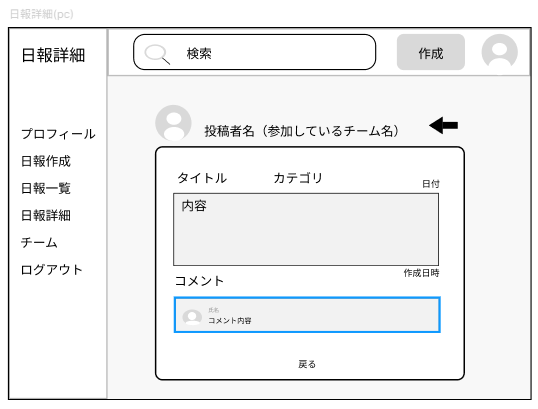
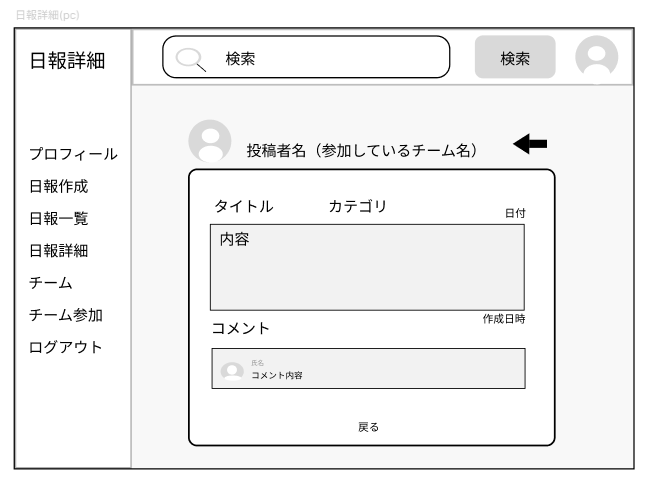
feat: チーム参加画面の追加と、日報一覧画面にフィルタリングフォーム追加

Changed region(s): [[0.0, 0.0293, 1.0, 0.9976], [0.2677, 0.2347, 0.8625, 0.9389]]

diff --git a/docs/screen-design.md b/docs/screen-design.md
@@ -12,6 +12,8 @@
 | 日報作成           | /reports/new       | 日報投稿           |
 | 日報詳細           | /reports/[id]      | 日報詳細表示       |
 | 日報編集           | /reports/[id]/edit | 日報編集           |
+| チーム             | /team              | チームメンバー一覧  |
+| チーム参加          | /team/join         | チーム参加        |
 
 ---
 
@@ -77,6 +79,57 @@ Headerなし
 
 ---
 
+## 共通ヘッダー
+
+全画面（ログイン・新規登録・パスワードリセット以外）で表示される共通レイアウト。
+
+### 要素
+
+・検索フォーム  
+・検索ボタン  
+・アカウントアイコン（プロフィール画面へのリンク）
+
+### 検索機能
+
+#### 検索仕様 ：
+
+未入力の場合 ： 全日報表示
+
+検索結果0件： 該当する日報がありません表示
+
+ページネーション： 検索結果にも適用
+
+#### 検索対象：
+
+・日報タイトル  
+・日報本文  
+・投稿者名  
+
+#### 検索方法：
+
+・部分一致検索（LIKE検索）
+・複数項目をOR条件で検索
+
+例：
+
+タイトル OR 本文 OR 投稿者名 に検索ワードが含まれる日報を表示
+
+### レイアウト
+
+[現在の画面]　[検索フォーム][検索ボタン]　　　　　　[アカウントアイコン]
+
+PC：
+
+・横並び表示
+・ヘッダー固定（sticky）
+
+スマホ：
+
+・検索フォーム横幅100%
+・アカウントアイコン右配置
+
+---
+
 ## 日報一覧画面
 
 URL:
@@ -85,11 +138,8 @@ URL:
 ### 要素
 
 ・ヘッダー
-・プロフィールリンク
-・日報作成ボタン
-・検索フォーム
-・チーム参加ボタン（参加している場合はチーム名を表示）
 ・日報カード一覧
+・フィルタリングフォーム（存在しているチームをセレクト。デフォルトは自分のチームのものを表示）
 ・ページネーション
 
 ### 日報カード表示項目
@@ -203,8 +253,21 @@ URL:
 ### 要素
 
 ・プロジェクト名
+・チーム切り替えセレクトボックス
 ・メンバー
 ・アバター画像
+
+---
+
+## チーム参加画面
+
+URL:
+/team/join
+
+### 要素
+
+・コード入力フォーム
+・参加ボタン
 
 ---
 
